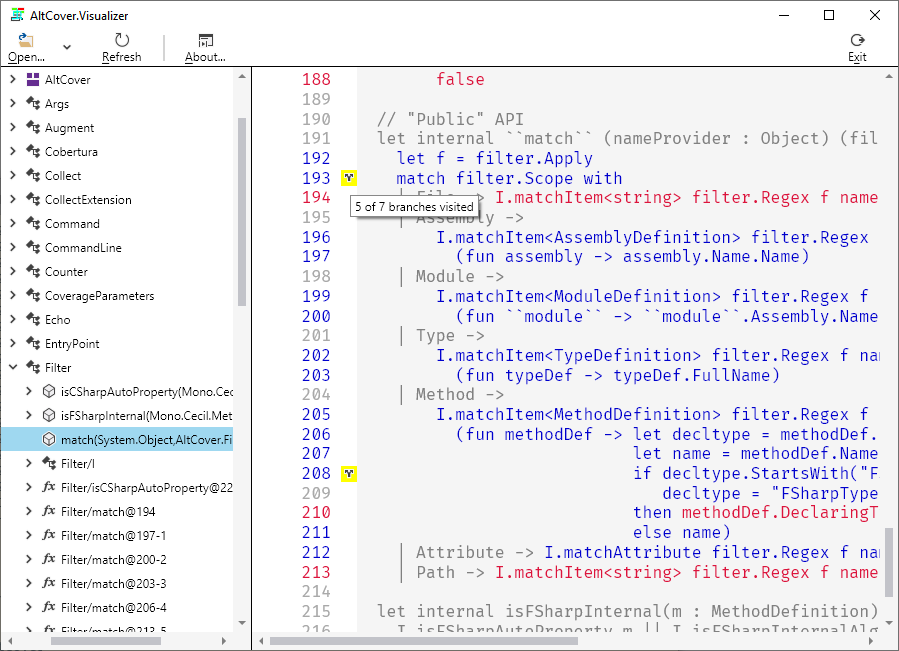
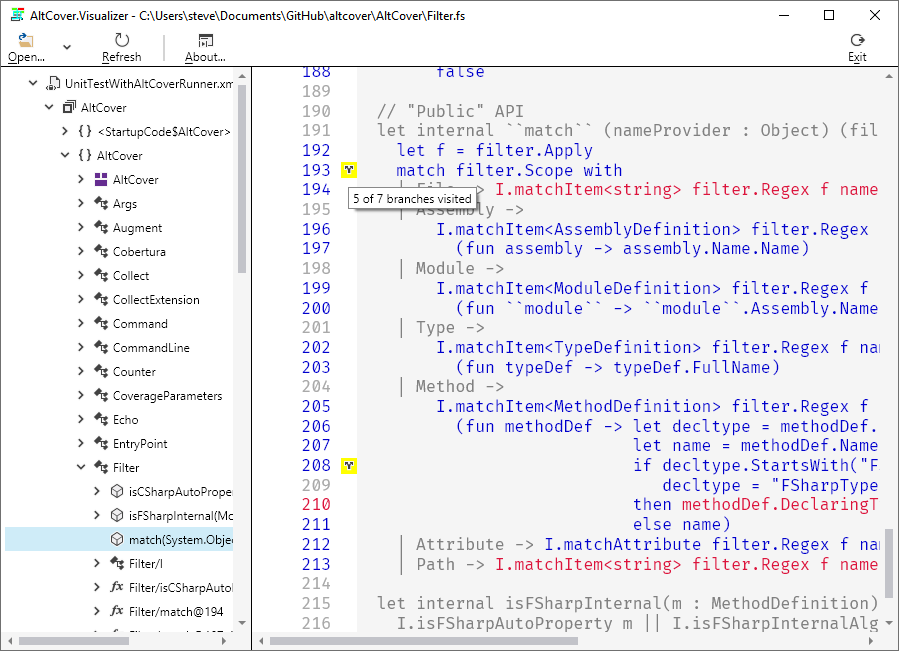
[Skip CI] Update to current

diff --git a/ReleaseNotes.md b/ReleaseNotes.md
@@ -3,6 +3,8 @@ Q. Never mind the fluff -- how do I get started?
 A. Start with the Quick Start guide : https://github.com/SteveGilham/altcover/wiki/QuickStart-Guide
 
 # 7.1.7xx  (Genbu series release 6)
+* [Visualizer-global-tool] Fix the display of branch information on the second and subsequent coverage file; other minor tidyings
+* [Visualizer-GTK2] Make this look more like the Avalonia version; tentative fix for the `About` dialog link button on non-Windows platforms based on the Avalonia code.
 
 # 7.1.780  (Genbu series release 5a)
 * [Visualizer] Rewritten global tool based on the cross-platform AvaloniaUI toolkit (so no need for all the GTK3 set-up, including the `--schemadir[=path]` command-line parameter)
